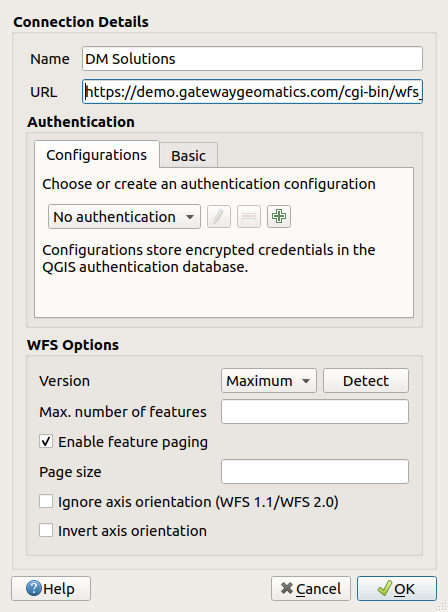
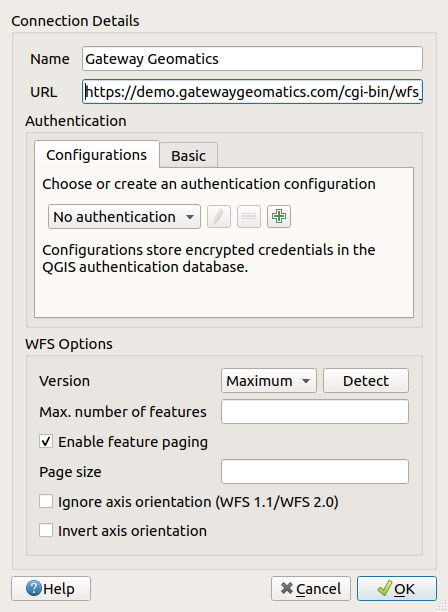
added suggestions from the other writers for adding a wfs layer to the canvas

Changed region(s): [[0.0312, 0.0, 0.5, 0.1242], [0.0625, 0.5278, 0.2812, 0.5899], [0.0625, 0.1863, 0.3125, 0.2173]]

diff --git a/source/docs/user_manual/working_with_ogc/ogc_client_support.rst b/source/docs/user_manual/working_with_ogc/ogc_client_support.rst
@@ -621,10 +621,10 @@ https://demo.gatewaygeomatics.com/cgi-bin/wfs_gateway?REQUEST=GetCapabilities&VE
 
 To be able to load a WFS Layer we create a connection to the WFS server first.
 
-#. Go to the browser panel as described in :ref:`browser_panel` . Choose the menu
-   :guilabel:`WFS`.
-#. Click on :guilabel:`New`.
-#. Enter ``DM Solutions`` as name.
+#. Go to the browser panel as described in :ref:`browser_panel`.
+#. Right-click on the :guilabel:`WFS` in the :ref:`browser_panel`.
+#. Click on :guilabel:`New connection ...`.
+#. Enter ``Gateway Geomatics`` as name.
 #. Enter the URL (see above).
 
 
@@ -637,7 +637,7 @@ To be able to load a WFS Layer we create a connection to the WFS server first.
 
 Now we are ready to load WFS layers from the above connection.
    
-#. Choose 'DM Solutions' from the :guilabel:`Server Connections`
+#. Choose 'Gateway Geomatics' from the :guilabel:`Server Connections`
    |selectString| drop-down list.
 #. Click :guilabel:`Connect`.
 #. Wait for the list of layers to be populated.
